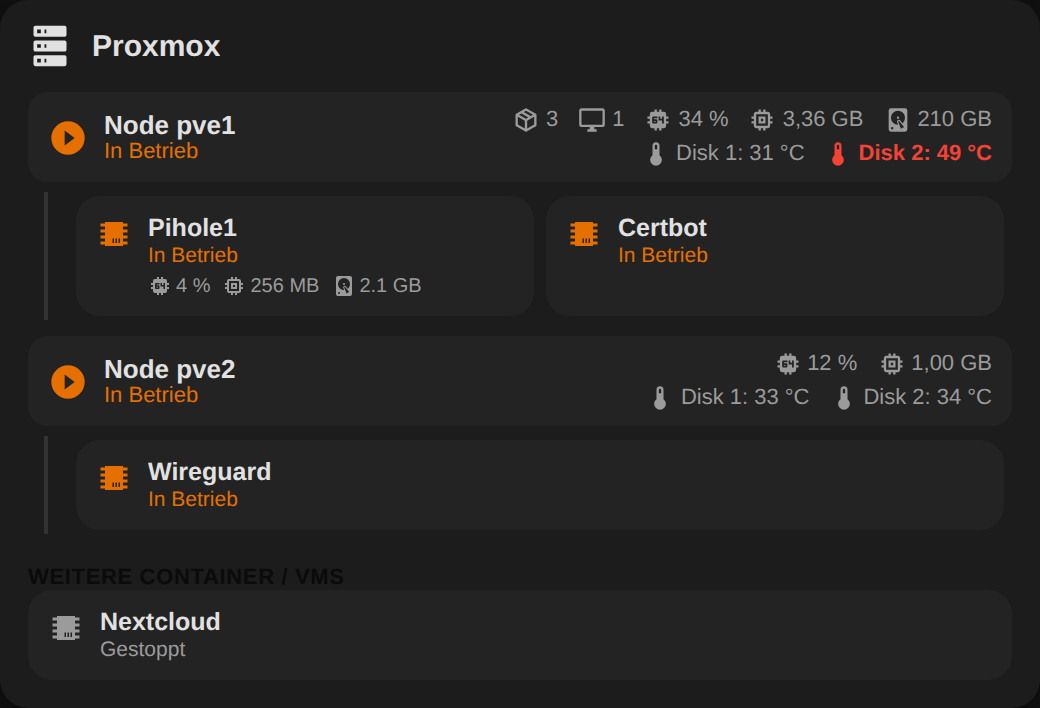
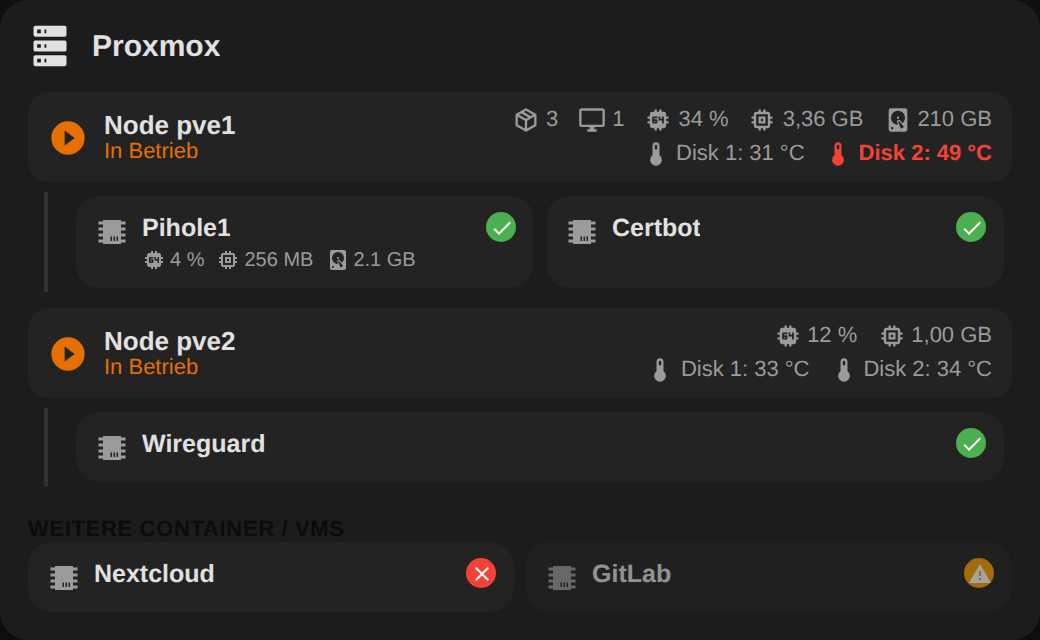
Proxmox card: replace container/VM state text with a status badge
Redesigned the container/VM tile per feedback (reference: a
green-check / yellow-warning / red-X status-light icon set):

- The "In Betrieb"/"Gestoppt"/"Nicht verfügbar" text line is gone,
  replaced by a small round badge top-right of the tile, next to the
  name: green check for running, red X for stopped, amber warning for
  unavailable (a state the old text-only design also had but which
  read the same visual weight as "stopped" - now visually distinct).
- Freed-up vertical space lets tiles go back to 3 per row instead of
  2 (flex-basis 45% -> 31%, tighter gaps), while still fitting the
  CPU/RAM/storage mini-stats row added earlier.
- ctr-icon and the CSS custom property that drove its running/stopped
  color are gone along with the text line - color now lives only on
  the badge, so the tile's own icon (mdi:chip etc.) stays a neutral
  color always.
- _renderContainerTile's now-unused runColor/stopColor parameters
  removed from its signature and both call sites.

Screenshot-verified against all three badge states (running/stopped/
unavailable) and against the earlier long-disk-label scenario; full
existing regression suite (HA SimCard, HA Infra: NAS, Proxmox
functional/gesture/domain/editor tests) still passes on the same
bundled file.

diff --git a/ha-simcard.js b/ha-simcard.js
@@ -1257,7 +1257,7 @@ if (!window.customCards.some((c) => c.type === "ha-simcard")) {
 (function () {
   "use strict";
 
-const VERSION = "1.1.3";
+const VERSION = "1.2.0";
 const LOG_FLAG = `customCards_HaInfraProxmox_Logged_${VERSION}`;
 
 if (!window[LOG_FLAG]) {
@@ -1514,15 +1514,20 @@ class HaInfraProxmox extends HTMLElement {
         .node-mini-stat-label { max-width: 68px; overflow: hidden; text-overflow: ellipsis; white-space: nowrap; flex-shrink: 1; }
         .node-mini-stat-value { flex-shrink: 0; }
         .node-containers { display: flex; flex-wrap: wrap; gap: 6px; padding: 2px 4px 2px 14px; margin-left: 8px; border-left: 2px solid var(--divider-color); }
-        .containers { display: flex; flex-wrap: wrap; gap: 8px; padding: 0 14px 14px; }
+        .containers { display: flex; flex-wrap: wrap; gap: 6px; padding: 0 14px 14px; }
         .other-containers-label { font-size: 11px; font-weight: 600; opacity: 0.6; padding: 6px 14px 0; text-transform: uppercase; letter-spacing: 0.03em; }
-        .ctr-tile { flex: 1 1 45%; min-width: 130px; display: flex; align-items: flex-start; gap: 8px; padding: 9px 10px; border-radius: 12px; cursor: pointer; background: rgba(128,128,128,0.08); transition: background 0.15s; box-sizing: border-box; }
+        .ctr-tile { flex: 1 1 31%; min-width: 108px; display: flex; align-items: flex-start; gap: 6px; padding: 8px 9px; border-radius: 12px; cursor: pointer; background: rgba(128,128,128,0.08); transition: background 0.15s; box-sizing: border-box; }
         .ctr-tile:hover { background: rgba(128,128,128,0.14); }
-        .ctr-tile ha-icon.ctr-icon { --mdc-icon-size: 18px; color: var(--ctr-color, var(--secondary-text-color)); flex-shrink: 0; margin-top: 1px; }
-        .ctr-tile.unavailable { opacity: 0.5; cursor: default; }
+        .ctr-tile ha-icon.ctr-icon { --mdc-icon-size: 18px; color: var(--secondary-text-color); flex-shrink: 0; margin-top: 1px; }
+        .ctr-tile.unavailable { opacity: 0.6; cursor: default; }
         .ctr-txt { display: flex; flex-direction: column; min-width: 0; flex: 1; gap: 1px; }
-        .ctr-name { font-size: 12.5px; font-weight: 600; color: var(--primary-text-color); white-space: nowrap; overflow: hidden; text-overflow: ellipsis; }
-        .ctr-state { font-size: 10.5px; color: var(--ctr-color, var(--secondary-text-color)); white-space: nowrap; overflow: hidden; text-overflow: ellipsis; }
+        .ctr-head { display: flex; align-items: center; justify-content: space-between; gap: 4px; }
+        .ctr-name { font-size: 12.5px; font-weight: 600; color: var(--primary-text-color); white-space: nowrap; overflow: hidden; text-overflow: ellipsis; min-width: 0; }
+        .ctr-status-badge { display: inline-flex; align-items: center; justify-content: center; width: 15px; height: 15px; border-radius: 50%; flex-shrink: 0; }
+        .ctr-status-badge ha-icon { --mdc-icon-size: 12px; color: #fff; }
+        .ctr-status-badge.is-running { background: #4CAF50; }
+        .ctr-status-badge.is-stopped { background: #f44336; }
+        .ctr-status-badge.is-unavailable { background: #FFA000; }
         .ctr-mini-stats { display: flex; flex-wrap: wrap; gap: 6px; margin-top: 2px; }
         .ctr-mini-stat { display: flex; align-items: center; gap: 2px; font-size: 10px; color: var(--secondary-text-color); white-space: nowrap; }
         .ctr-mini-stat ha-icon { --mdc-icon-size: 12px; color: inherit; }
@@ -1616,14 +1621,12 @@ class HaInfraProxmox extends HTMLElement {
     return wrap;
   }
 
-  _renderContainerTile(h, ctr, runColor, stopColor) {
+  _renderContainerTile(h, ctr) {
     const st = h.states[ctr.entity];
     const unavailable = isUnavailable(st);
     const running = !unavailable && isRunning(st);
-    const color = running ? runColor : stopColor;
     const tile = document.createElement("div");
     tile.className = `ctr-tile${unavailable ? " unavailable" : ""}`;
-    tile.style.setProperty("--ctr-color", unavailable ? "var(--secondary-text-color)" : color);
     if (ctr.show_icon !== false) {
       const icon = document.createElement("ha-icon");
       icon.className = "ctr-icon";
@@ -1632,14 +1635,21 @@ class HaInfraProxmox extends HTMLElement {
     }
     const txt = document.createElement("div");
     txt.className = "ctr-txt";
+    const head = document.createElement("div");
+    head.className = "ctr-head";
     const nameSpan = document.createElement("span");
     nameSpan.className = "ctr-name";
     nameSpan.textContent = trimStr(ctr.name) || st?.attributes?.friendly_name || ctr.entity;
-    txt.appendChild(nameSpan);
-    const stateSpan = document.createElement("span");
-    stateSpan.className = "ctr-state";
-    stateSpan.textContent = unavailable ? getTranslation(h, "state_unavailable") : getTranslation(h, running ? "state_running" : "state_stopped");
-    txt.appendChild(stateSpan);
+    head.appendChild(nameSpan);
+    const badge = document.createElement("span");
+    const badgeState = unavailable ? "unavailable" : (running ? "running" : "stopped");
+    badge.className = `ctr-status-badge is-${badgeState}`;
+    badge.title = unavailable ? getTranslation(h, "state_unavailable") : getTranslation(h, running ? "state_running" : "state_stopped");
+    const badgeIcon = document.createElement("ha-icon");
+    badgeIcon.icon = unavailable ? "mdi:alert" : (running ? "mdi:check" : "mdi:close");
+    badge.appendChild(badgeIcon);
+    head.appendChild(badge);
+    txt.appendChild(head);
 
     const miniWrap = document.createElement("div");
     miniWrap.className = "ctr-mini-stats";
@@ -1752,7 +1762,7 @@ class HaInfraProxmox extends HTMLElement {
           grid.className = "node-containers";
           own.forEach((ctr) => {
             groupedIds.add(ctr);
-            grid.appendChild(this._renderContainerTile(h, ctr, runColor, stopColor));
+            grid.appendChild(this._renderContainerTile(h, ctr));
           });
           block.appendChild(grid);
         }
@@ -1765,7 +1775,7 @@ class HaInfraProxmox extends HTMLElement {
     const nodeIds = new Set(nodes.filter((n) => n.id).map((n) => n.id));
     const ungrouped = allContainers.filter((ctr) => !groupedIds.has(ctr) && (!ctr.node_id || !nodeIds.has(ctr.node_id)));
     containersEl.replaceChildren();
-    ungrouped.forEach((ctr) => containersEl.appendChild(this._renderContainerTile(h, ctr, runColor, stopColor)));
+    ungrouped.forEach((ctr) => containersEl.appendChild(this._renderContainerTile(h, ctr)));
     const showOtherLabel = ungrouped.length > 0 && groupedIds.size > 0;
     otherLabelEl.hidden = !showOtherLabel;
     if (showOtherLabel) otherLabelEl.textContent = getTranslation(h, "other_containers");

diff --git a/CHANGELOG.md b/CHANGELOG.md
@@ -125,6 +125,14 @@ side with any other card, no conflicts.
 
 ## HA Infra: Proxmox
 
+### [1.2.0]
+
+* **Container/VM tiles redesigned**: the "In Betrieb"/"Gestoppt"/"Nicht verfügbar" state text
+  is gone, replaced by a small round status badge top-right of the tile, next to the name —
+  green check (running), red X (stopped), amber warning (unavailable). Frees up enough space
+  that tiles pack three per row again instead of two (`flex-basis` 45% → 31%), matching the
+  earlier CPU/RAM/storage layout without the wider tiles it needed before.
+
 ### [1.1.3]
 
 * **Node stat layout**: general stats (containers/VMs/CPU/RAM/storage) and per-disk
